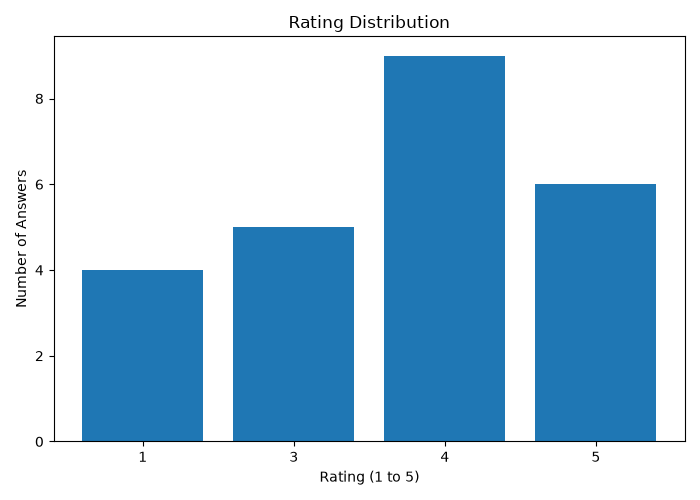
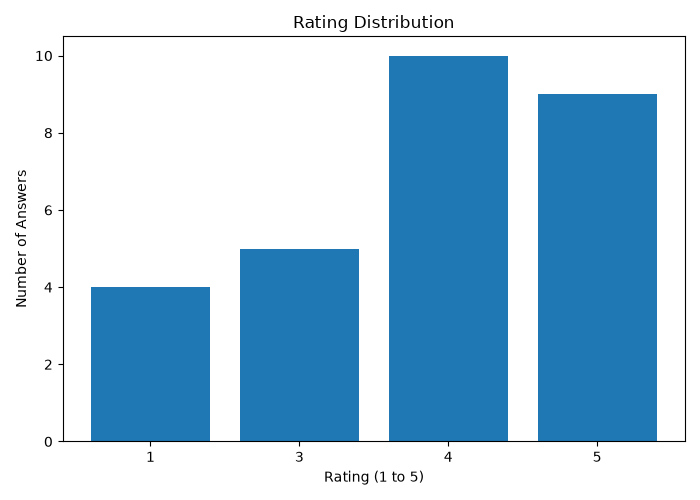
Update project and secure environment configuration

diff --git a/test_db_.py b/test_db_.py
@@ -1,8 +1,8 @@
 from database import get_connection
 
-conn = get_connection()
-
-if conn.is_connected():
-    print("MySQL Connected Successfully!")
-
-conn.close()
+try:
+    conn = get_connection()
+    print("MySQL connected successfully!")
+    conn.close()
+except Exception as e:
+    print("Connection failed:", e)
